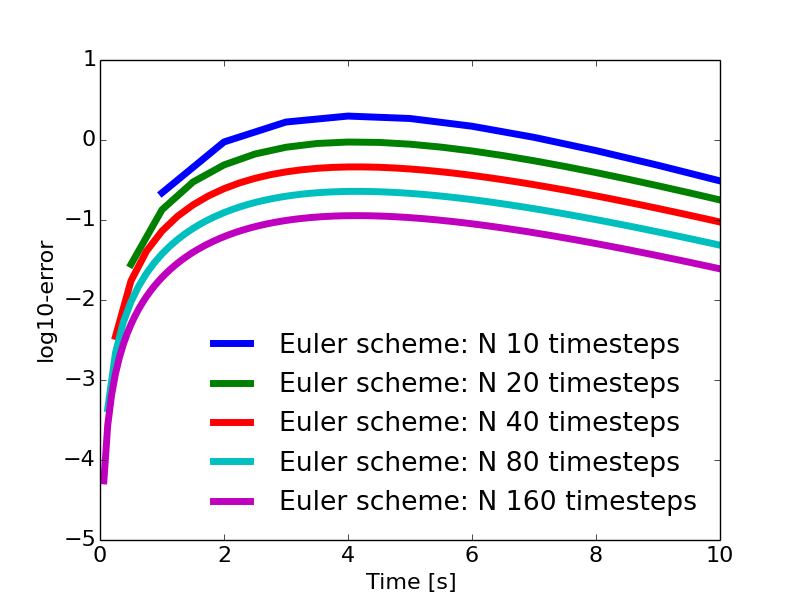
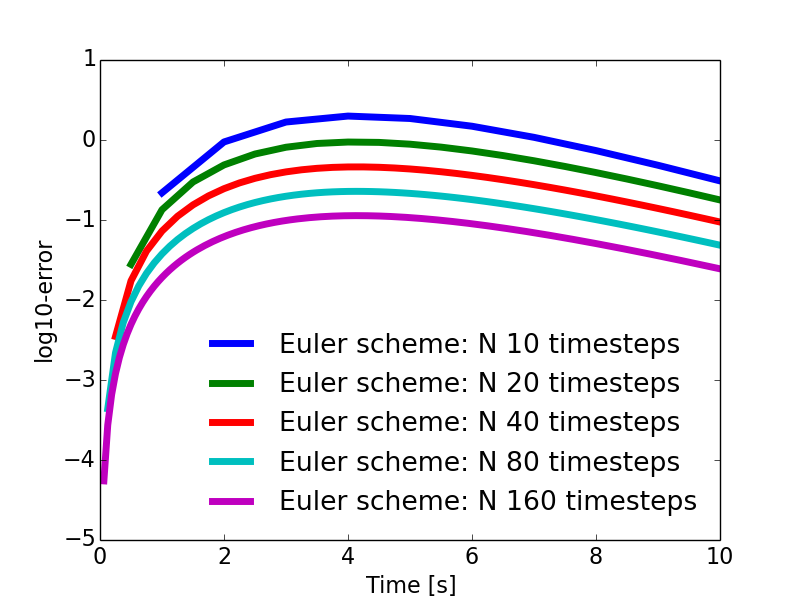
updates

diff --git a/allfiles/digital_compendium/._main010.html b/allfiles/digital_compendium/._main010.html
@@ -274,7 +274,8 @@ error_diff <span style="color: #666666">=</span> []
 
     previous_max_log_err <span style="color: #666666">=</span> max_log_error
     
-<span style="color: #008000; font-weight: bold">print</span> <span style="color: #666666">10**</span>(np<span style="color: #666666">.</span>mean(error_diff))
+<span style="color: #008000; font-weight: bold">print</span> <span style="color: #666666">10**</span>(np<span style="color: #666666">.</span>mean(error_diff)), np<span style="color: #666666">.</span>mean(error_diff)
+
 
 <span style="color: #408080; font-style: italic"># plot analytical solution</span>
 <span style="color: #408080; font-style: italic"># plot(time,v_a)</span>
@@ -289,9 +290,12 @@ savefig(<span style="color: #BA2121">&#39;example_euler_timestep_study.png&#39;<
 show()
 </pre></div>
 <p>
+The plot resulting from the code above is shown in Figure (<a href="#fig:error_evolution">5</a>). The difference or distance between the curves seems to be rather constant after an initial transient. 
+
+<p>
 <center> <!-- figure -->
-<center><p class="caption">Figure 5:  Plots for the logarithmic errors for a falling sphere with constant drag. The timestep \( \Delta t \) is reduced by a factor two from one curve to the one immediately below. </p></center>
-<p><img src="chapter1/programs_and_modules/example_euler_timestep_study.png" align="bottom" width=400></p>
+<center><p class="caption">Figure 5:  Plots for the logarithmic errors for a falling sphere with constant drag. The timestep \( \Delta t \) is reduced by a factor two from one curve to the one immediately below.<div id="fig:error_evolution"></div> </p></center>
+<p><img src="chapter1/programs_and_modules/example_euler_timestep_study.png" align="bottom" width=600></p>
 </center>
 
 <p>

diff --git a/allfiles/digital_compendium/chapter1/programs_and_modules/Euler_timestep_ctrl.py b/allfiles/digital_compendium/chapter1/programs_and_modules/Euler_timestep_ctrl.py
@@ -79,7 +79,8 @@ for i in range(Ndts+1):
 
     previous_max_log_err = max_log_error
     
-print 10**(np.mean(error_diff))
+print 10**(np.mean(error_diff)), np.mean(error_diff)
+
 
 # plot analytical solution
 # plot(time,v_a)
